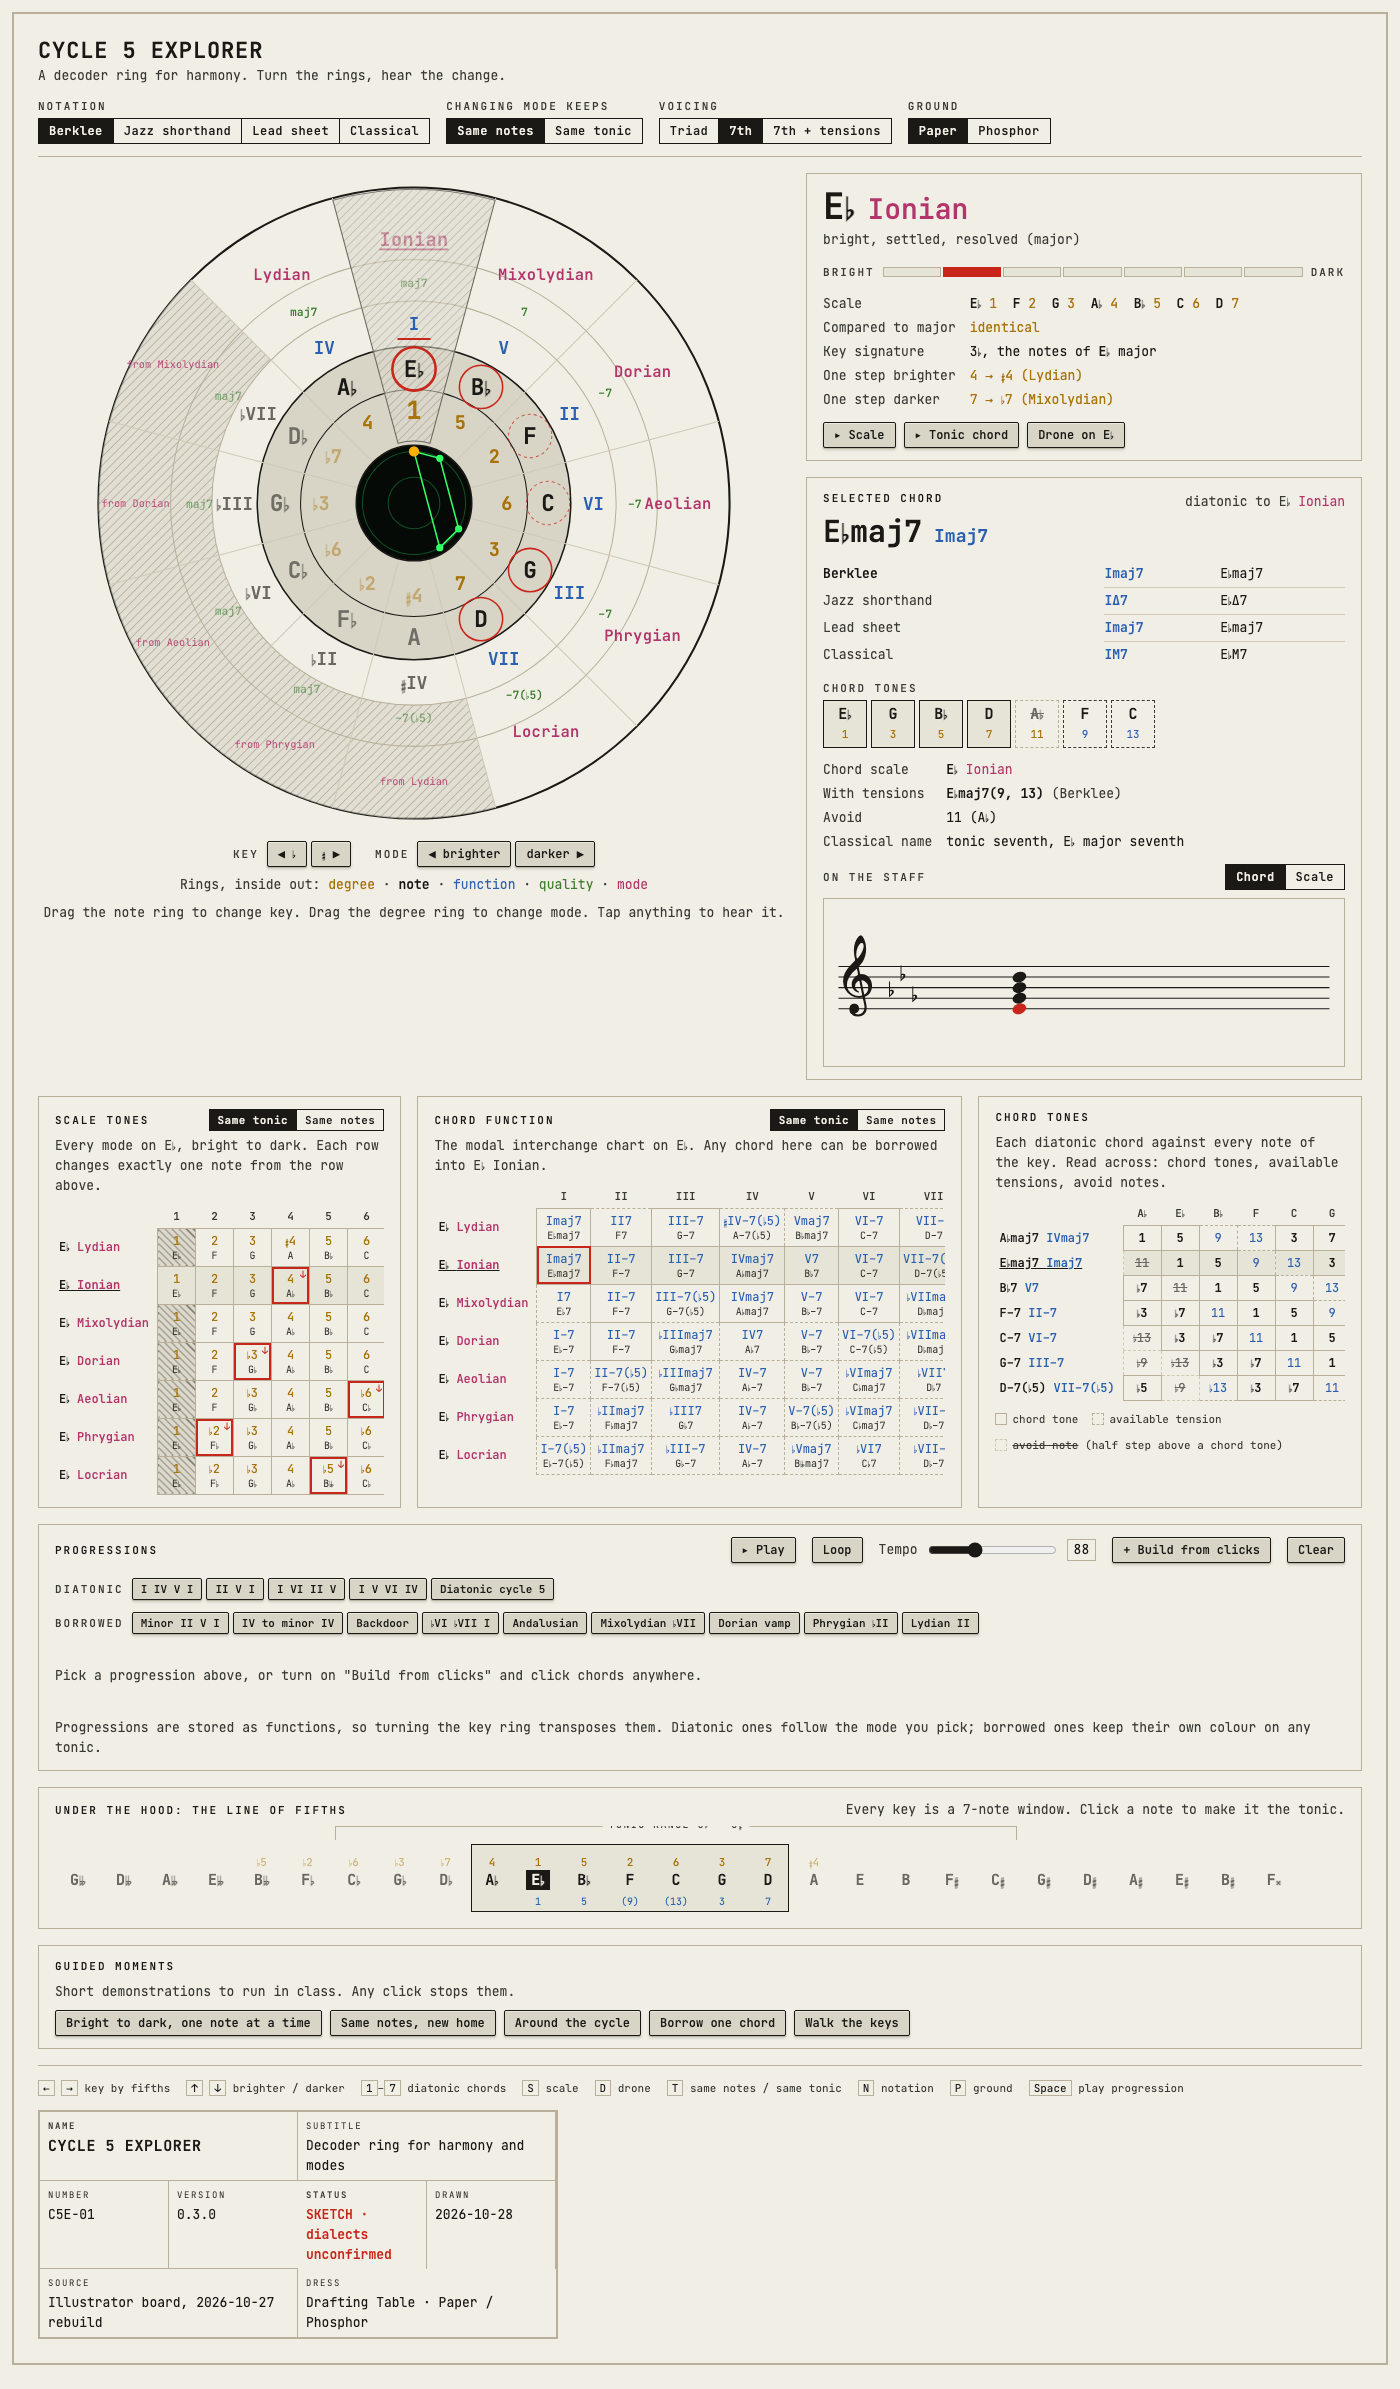
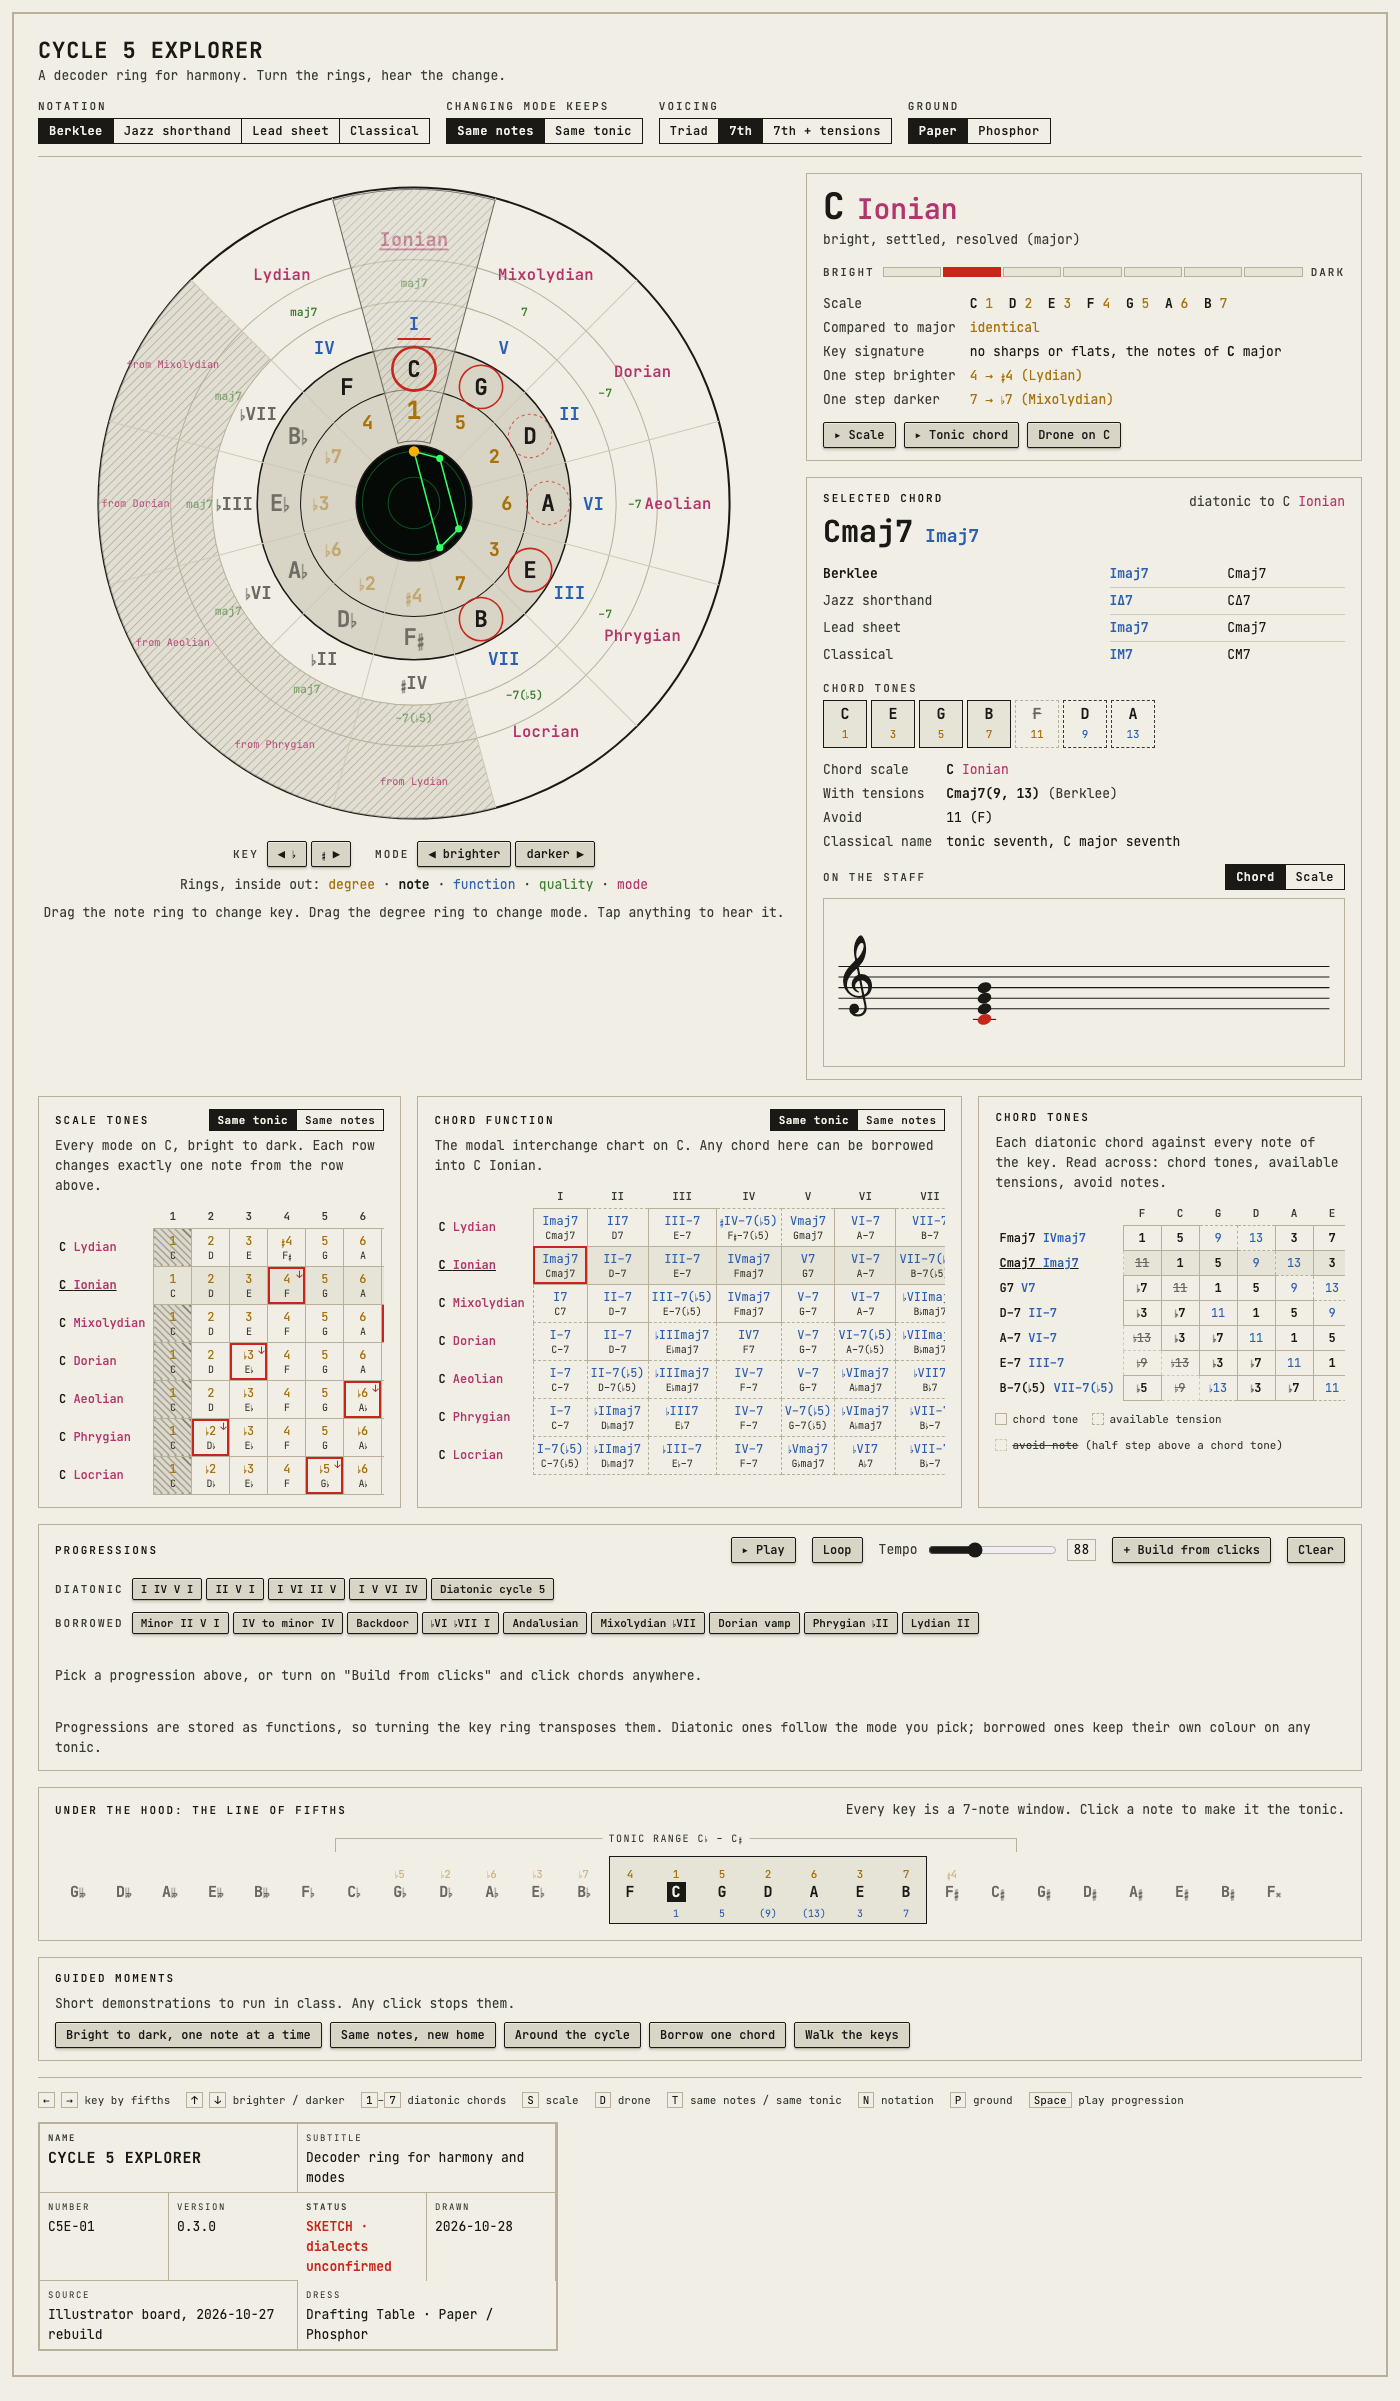
edit(Cycle 5 Explorer): the tonic-range label gets room on the strip
The bracket label on the line-of-fifths strip was clipped by the strip's top edge on both grounds. The strip's top padding grew from 22 to 34 px, the bracket and window box moved down with it, and the label sits on the bracket line inside the box. 26 theory checks pass; the three proofs re-rendered.

Palace-Kind: edit
Palace-Verify: verified
Palace-Author: claude

diff --git a/Projects/Cycle 5 Explorer/cycle5-explorer.html b/Projects/Cycle 5 Explorer/cycle5-explorer.html
@@ -264,7 +264,7 @@ input[type=range] { accent-color: var(--ink); }
 
 /* the line of fifths */
 .lof { overflow-x: auto; padding-bottom: 4px; }
-.lof-inner { position: relative; display: grid; grid-auto-flow: column; grid-auto-columns: 46px; width: max-content; padding-top: 22px; }
+.lof-inner { position: relative; display: grid; grid-auto-flow: column; grid-auto-columns: 46px; width: max-content; padding-top: 34px; }
 .lof .cell { display: grid; justify-items: center; gap: 2px; padding: 4px 0 6px; cursor: pointer; position: relative; z-index: 1; }
 .lof .cell .sd { font-size: 11px; color: var(--degree); height: 16px; }
 .lof .cell .sd.par { opacity: .45; }
@@ -272,9 +272,9 @@ input[type=range] { accent-color: var(--ink); }
 .lof .cell.in .nm { color: var(--note); }
 .lof .cell.tonic .nm { color: var(--on-selection); background: var(--selection); padding: 0 5px; }
 .lof .cell .ct { font-size: 10px; color: var(--function); height: 14px; }
-.lof .win { position: absolute; top: 18px; bottom: 0; border: var(--stroke-outline) solid var(--ink); background: var(--ground-100); transition: left 120ms linear; z-index: 0; }
-.lof .range { position: absolute; top: 0; height: 14px; border: var(--stroke-rule) solid var(--rule); border-bottom: 0; }
-.lof .range span { position: absolute; top: -2px; left: 50%; transform: translate(-50%, -50%); background: var(--ground-000); padding: 0 6px; font-size: 10px; letter-spacing: .14em; color: var(--ink-2); white-space: nowrap; }
+.lof .win { position: absolute; top: 30px; bottom: 0; border: var(--stroke-outline) solid var(--ink); background: var(--ground-100); transition: left 120ms linear; z-index: 0; }
+.lof .range { position: absolute; top: 12px; height: 14px; border: var(--stroke-rule) solid var(--rule); border-bottom: 0; }
+.lof .range span { position: absolute; top: 0; left: 50%; transform: translate(-50%, -50%); line-height: 14px; background: var(--ground-000); padding: 0 6px; font-size: 10px; letter-spacing: .14em; color: var(--ink-2); white-space: nowrap; }
 .tours { display: flex; flex-wrap: wrap; gap: var(--space-2); }
 
 /* keys, title block */
